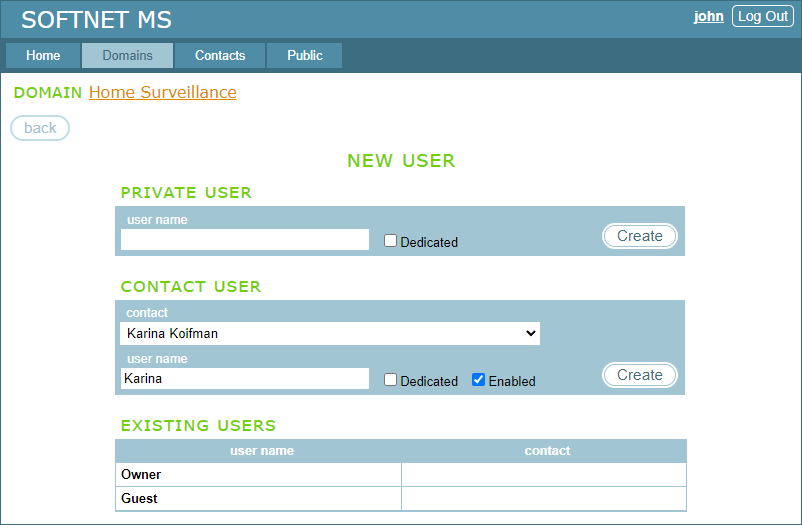
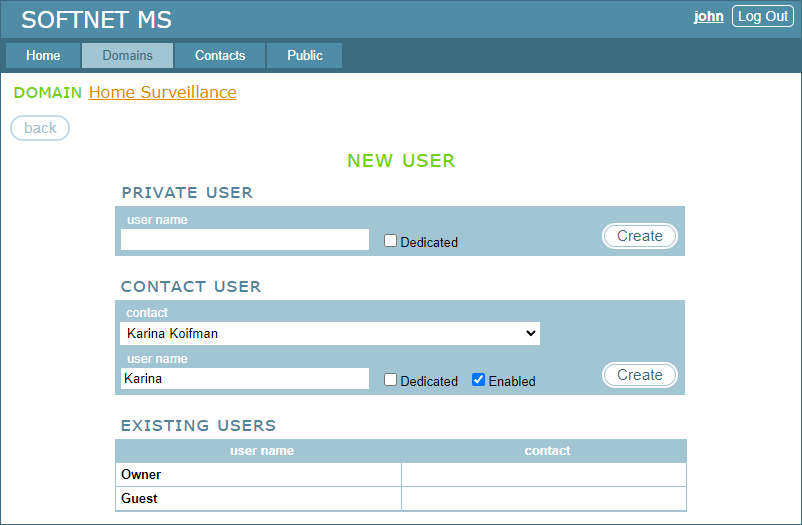
text update

Changed region(s): [[0.1559, 0.3352, 0.3117, 0.3962], [0.1559, 0.5181, 0.3429, 0.579], [0.1559, 0.7924, 0.3429, 0.8229]]

diff --git a/_sass/content.scss b/_sass/content.scss
@@ -237,6 +237,11 @@
     margin-top: $sp-2;
   }
 
+
+  .text-subheader {
+    color: #508397;
+  }
+
   .text-orange {
     color:rgb(224, 96, 0);
   }

diff --git a/docs/users/user-mgt.md b/docs/users/user-mgt.md
@@ -15,7 +15,7 @@ To add a new user, click the "<span class="text-blue">new user</span>" button. I
 
 ![]({{ site.baseurl }}{% link assets/images/image_usr.2_2.png %})
 
-The <span class="header-green">NEW USER</span> panel contains three sections. The first section <span class="header-green">PRIVATE USER</span> is for creating a Private user. It contains a text field "user name", and a checkbox labeled "Dedicated". As you can see, the <span class="header-green">CONTACT USER</span> section also contains a "Dedicated" checkbox. This can be a useful feature in certain circumstances. We'll look at what it means for a user to be **dedicated** at the end of this section. To create a Private user, enter the name of a user in the "user name" field, select the value for the "Dedicated" checkbox and click "Create". In the following image, a private user GuardPost is being created in the "Office Automation" domain of our demo project:
+The <span class="header-green">NEW USER</span> panel contains three sections. The first section <span class="text-subheader">PRIVATE USER</span> is for creating a Private user. It contains a text field "user name", and a checkbox labeled "Dedicated". As you can see, the <span class="text-subheader">CONTACT USER</span> section also contains a "Dedicated" checkbox. This can be a useful feature in certain circumstances. We'll look at what it means for a user to be **dedicated** at the end of this section. To create a Private user, enter the name of a user in the "user name" field, select the value for the "Dedicated" checkbox and click "Create". In the following image, a private user GuardPost is being created in the "Office Automation" domain of our demo project:
 
 ![]({{ site.baseurl }}{% link assets/images/image_usr.2_3.png %})
 
@@ -23,8 +23,17 @@ After adding two Private users, GuardPost and Assistant, the list of users in "O
 
 ![]({{ site.baseurl }}{% link assets/images/image_usr.2_4.png %})
 
-The <span class="header-green">CONTACT USER</span> section of the panel is for creating a Contact user. 
+The <span class="text-subheader">CONTACT USER</span> section of the <span class="header-green">NEW USER</span> panel is for creating a Contact user:
 
+![]({{ site.baseurl }}{% link assets/images/image_usr.2_5.png %})
+
+First you need to select a contact from the contact list. If the user default name has been previously set for the selected contact, it is populated in the "user name" field. In the following image, a contact "Ben Stewart" is selected. The user default name “Stewart” was previously set for this contact, so it is populated in the “user name” field:
+
+![]({{ site.baseurl }}{% link assets/images/image_usr.2_6.png %})
+
+Clicking the "Create" button adds a new user. After adding two Contact users, Stewart and Robinson, the list of users in "Office Automation" looks like this:
+
+![]({{ site.baseurl }}{% link assets/images/image_usr.2_7.png %})
 
 Each site has the ability to specify the default rights for domain users to access the service. However, this only applies to users who are not marked as dedicated. Now let's see how they look like the default access rights. If the site employs Role-Based Access Control, the owner can specify a default role for all domain users by setting the "<span class="text-blue">user default role</span>" option to one of the roles declared on the site. If such a role is specified, for each user who equired this role, it will be underlined.  
 

diff --git a/docs/contacts/handling-inv.md b/docs/contacts/handling-inv.md
@@ -27,7 +27,7 @@ John Doe can set the user default name for this contact, such as "Karina":
 
 ![]({{ site.baseurl }}{% link assets/images/image_cont.3_5.png %})
 
-The user default name is used by the "New User" form to fill the "user name" field:
+The user default name is used by the NEW USER form to populate the "user name" field when selecting a contact:
 
 ![]({{ site.baseurl }}{% link assets/images/image_cont.3_6.png %})
 
